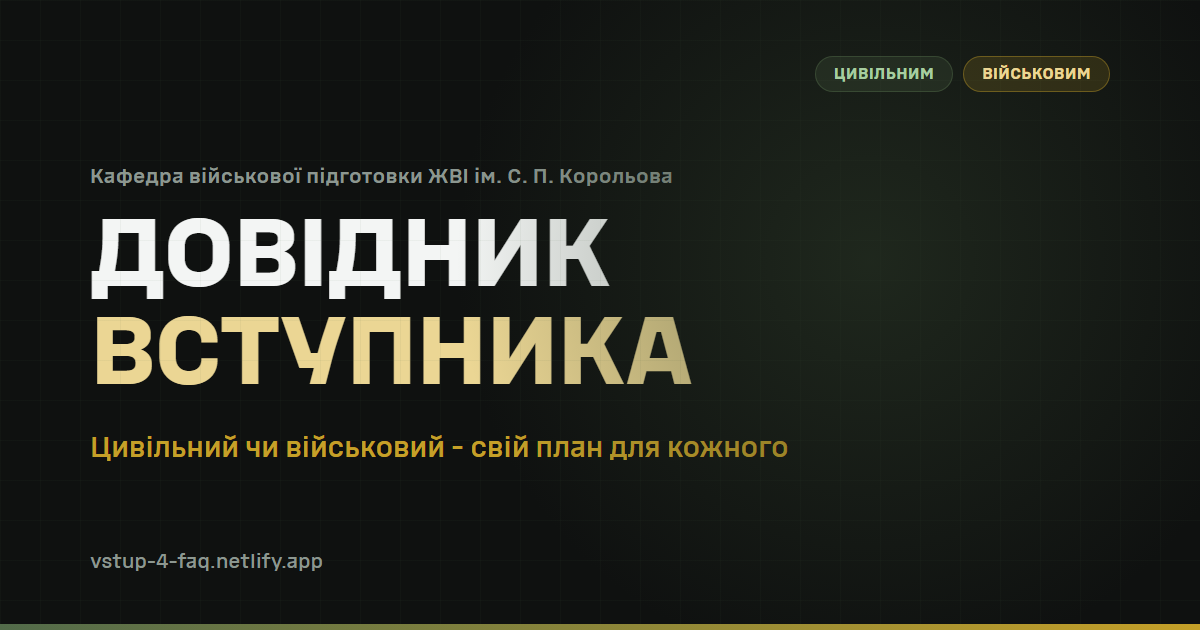
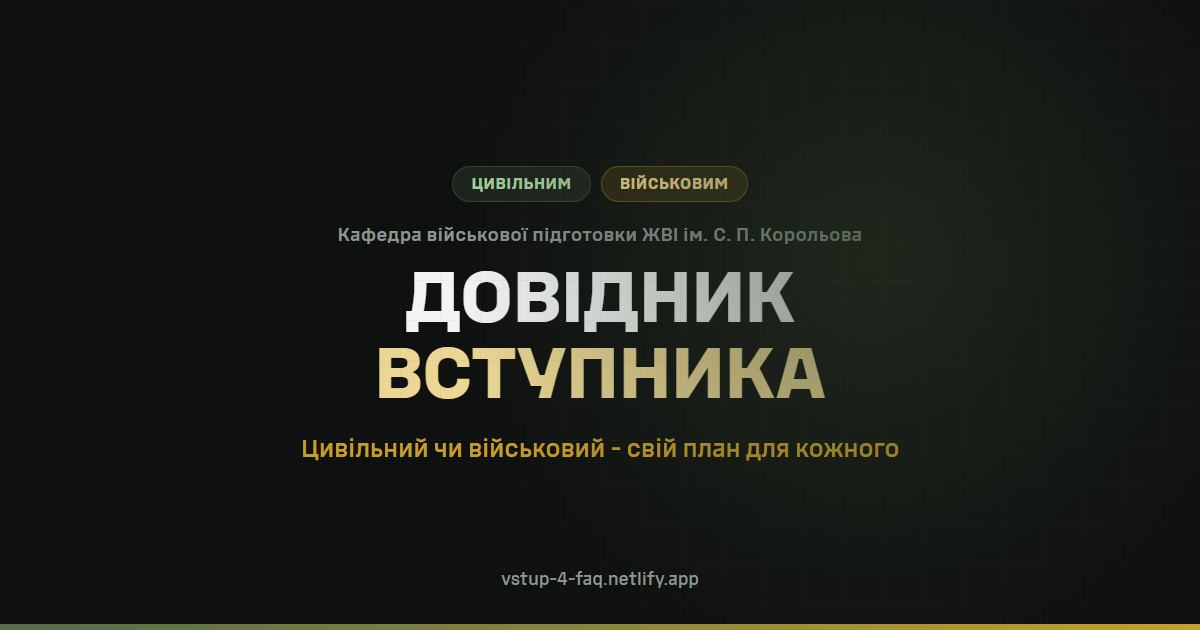
Recrop the OG image, drop a redundant test line, show copy rules to service members too
The link-preview image now keeps all text inside the center safe zone so
WhatsApp's square thumbnail crop doesn't cut off the headline. Removed the
now-outdated "Захист України не потрібен" aside from the psychological
testing step (already covered elsewhere in the military track). The
personal-document copy requirements note was hidden for service members;
their checklist needs the same formatting rules as the civilian one, so it's
shown now too.

diff --git a/app.js b/app.js
@@ -111,7 +111,7 @@ function updateCopy() {
         faqLead.textContent = "Питання, які стосуються саме вас як військовослужбовця.";
         checklistTitle.textContent = "Перелік документів для військовослужбовця";
         checklistDesc.textContent = "Це весь пакет документів, який вам потрібен для вступу.";
-        checklistCopyReqs.style.display = "none";
+        checklistCopyReqs.style.display = "";
         printDocTitle.textContent = "Список документів військовослужбовця для вступу";
         timelineLead.textContent = "Ваш графік навчання.";
         timelineFinalDesc.textContent = "Складання випускного екзамену.";
@@ -146,7 +146,7 @@ const roadmapMilitary = [
     { title: "Заява, військовий квиток, диплом", text: "Власноруч напишіть заяву на ім'я голови відбіркової комісії, сфотографуйте військовий квиток і диплом (або довідку ЄДЕБО, форма 9).", link: { href: "https://drive.google.com/file/d/15nOhUpsjAf81dUS7xF75c2ZgN5Jlo5-z/view?usp=sharing", text: "зразок заяви" } },
     { title: "Вставте всі фото в один файл .docx", text: "Назва файлу: ПІБ_дата_народження.docx (наприклад, Коваленко_Степан_Петрович_12051985.docx)." },
     { title: "Реєстрація на сайті вступу", text: "Оберіть ВОС і прикріпіть створений файл.", link: { href: "https://sites.google.com/view/kvpzvi/", text: "сайт вступу" } },
-    { title: "Психологічне тестування", text: "Три методики онлайн. Тест «Захист України» військовослужбовцям проходити не потрібно." },
+    { title: "Психологічне тестування", text: "Три методики онлайн." },
     { title: "Контракт Новою поштою", text: "Отримайте 2 примірники контракту, заповніть і надішліть разом із заявою та копіями документів." },
     { title: "Зарахування та оплата", text: "Оплатіть <a href=\"#faq-payment-military\" class=\"step-link\">вартість навчання</a> протягом двох тижнів після наказу про зарахування." }
 ];
